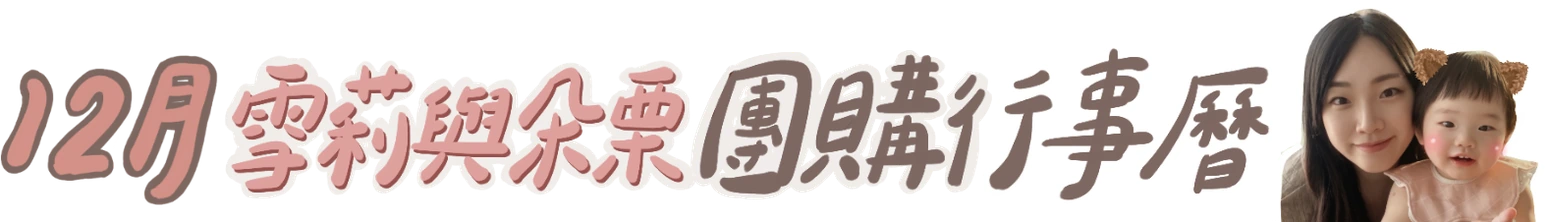
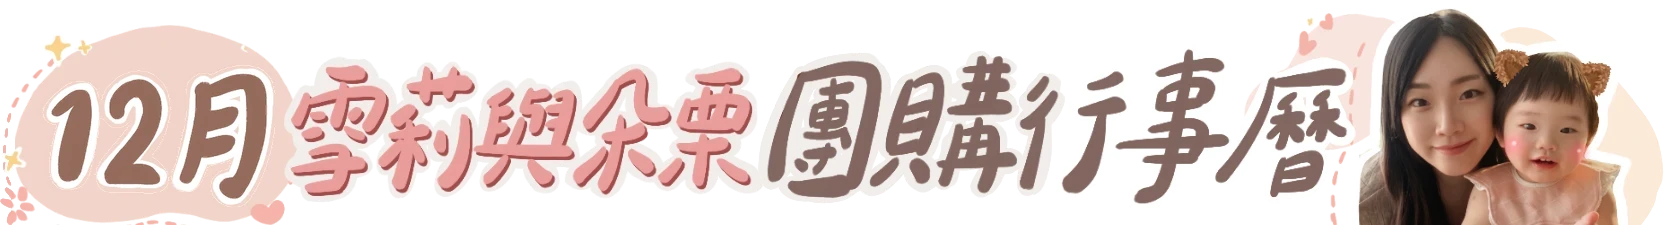
行事曆圖產生器：11、12月壓扁版標題圖換新（以10月壓扁版合成換數字）

diff --git a/calendar-poster.html b/calendar-poster.html
@@ -1933,7 +1933,7 @@ function titleImgSrc() {
   const mm = String(currentMonth + 1).padStart(2, '0');
   const slim = (S.mode === 'list' && S.size !== '9:16' && visibleGroups('list').length >= 24);
   // ?v= 換標題圖時改日期，避免瀏覽器快取到舊圖
-  return `images/calendar/title-${mm}${slim ? '-slim' : ''}.webp?v=20261029a`;
+  return `images/calendar/title-${mm}${slim ? '-slim' : ''}.webp?v=20261029b`;
 }
 
 function buildHead() {
